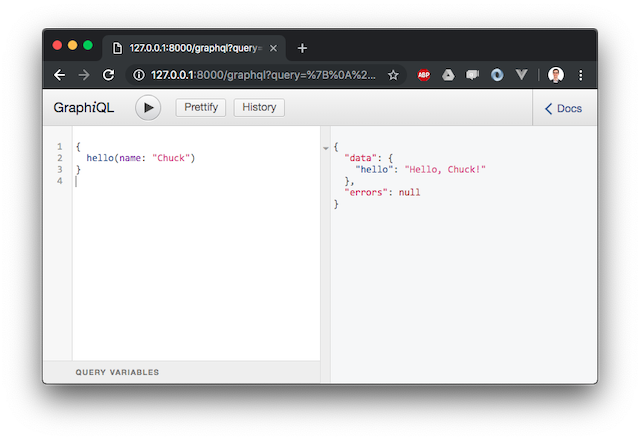
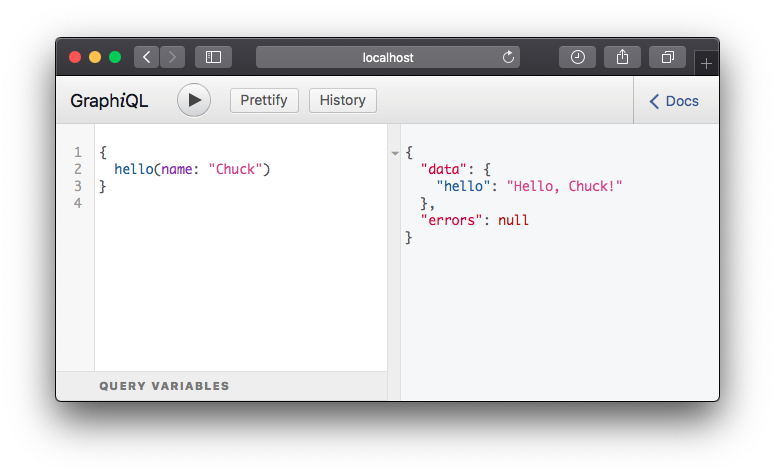
fix typos, update graphiql screenshot

diff --git a/README.md b/README.md
@@ -81,7 +81,7 @@ Once the server is running, we're ready to make queries.
 
 As per the [GraphQL spec](https://graphql.org/learn/serving-over-http/#http-methods-headers-and-body), the query can be passed in various ways:
 
-- **Query string** (methods: `GET`, `POST`):
+- **URL query string** (methods: `GET`, `POST`):
 
 ```bash
 curl 'http://localhost:8000/graphql?query=\{hello(name:"Chuck")\}'
@@ -116,7 +116,7 @@ All these requests result in the same response:
 }
 ```
 
-Furthermore, you can use **GraphiQL client**: visit [http://localhost:8000/graphql](http://localhost:8000/graphql) to interactively make queries in the browser. ✨
+Furthermore, you can use the built-in **GraphiQL client**: visit [http://localhost:8000/graphql](http://localhost:8000/graphql) to interactively make queries in the browser. ✨
 
 ![](https://github.com/tartiflette/tartiflette-starlette/blob/master/img/graphiql.png?raw=true)
 
